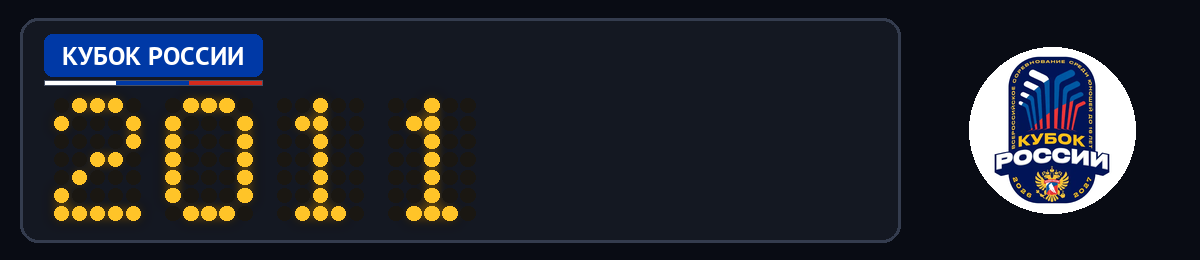
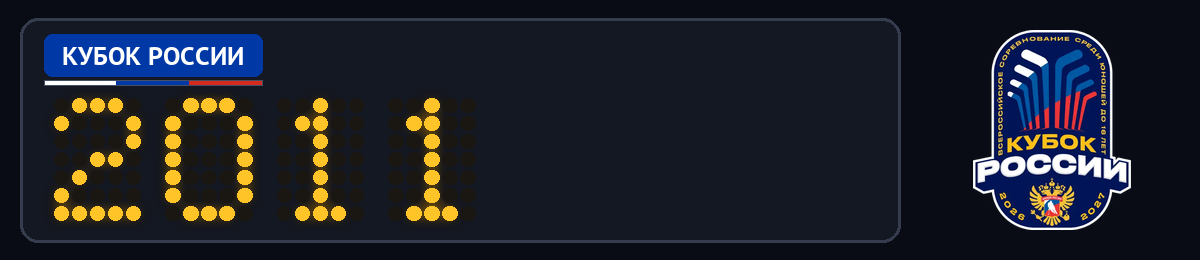
Кубок России: логотип без круга и фона

Changed region(s): [[0.8017, 0.0923, 0.9558, 0.8923]]

diff --git a/generate_banner_v3.py b/generate_banner_v3.py
@@ -112,7 +112,15 @@ def make_banner(year, group=None, tournament="ПЕРВЕНСТВО", out_path=No
         led(d, letter, end + 44, 136, 12, GROUP_LED[group], (24, 26, 32))
 
     size, cx, cy = 150, 1052, H // 2
-    logo_path = KR_LOGO_PATH if tournament == "КУБОК РОССИИ" and KR_LOGO_PATH.exists() else LOGO_PATH
+    if tournament == "КУБОК РОССИИ" and KR_LOGO_PATH.exists():
+        # Логотип Кубка России — без круга, крупнее, без собственного фона
+        logo = _logo_without_background(Image.open(KR_LOGO_PATH))
+        box = 200
+        k = min(box / logo.width, box / logo.height)
+        logo = logo.resize((max(1, round(logo.width * k)), max(1, round(logo.height * k))), Image.LANCZOS)
+        img.alpha_composite(logo, (cx - logo.width // 2, cy - logo.height // 2))
+        return _finish(img, out_path)
+    logo_path = LOGO_PATH
     try:
         logo = Image.open(logo_path).convert("RGBA")
         logo = logo.resize((size, size), Image.LANCZOS)
@@ -122,10 +130,35 @@ def make_banner(year, group=None, tournament="ПЕРВЕНСТВО", out_path=No
         d.ellipse([cx - 75, cy - 75, cx + 75, cy + 75], fill=(255, 255, 255))
         d.text((cx, cy), "ФХ СПб", font=font(28), fill=(10, 40, 120), anchor="mm")
 
+    return _finish(img, out_path)
+
+
+def _finish(img, out_path):
     img = img.convert("RGB")
     if out_path:
         img.save(out_path)
     return img
+
+
+def _logo_without_background(src, tol=48):
+    """Логотип без фона: если картинка непрозрачная — цвет фона берётся по углам и становится
+    прозрачным; пустые поля обрезаются, чтобы логотип был крупным."""
+    img = src.convert("RGBA")
+    w, h = img.size
+    corners = [img.getpixel((x, y)) for x, y in ((0, 0), (w - 1, 0), (0, h - 1), (w - 1, h - 1))]
+    if all(a > 200 for *_, a in corners):
+        bg = tuple(sum(c[i] for c in corners) // 4 for i in range(3))
+        px = img.load()
+        for y in range(h):
+            for x in range(w):
+                r, g, b, a = px[x, y]
+                dist = abs(r - bg[0]) + abs(g - bg[1]) + abs(b - bg[2])
+                if dist < tol:
+                    px[x, y] = (r, g, b, 0)
+                elif dist < tol * 2:                      # мягкий край без ореола
+                    px[x, y] = (r, g, b, int(a * (dist - tol) / tol))
+    bbox = img.getchannel("A").getbbox()
+    return img.crop(bbox) if bbox else img
 
 
 SET = (
